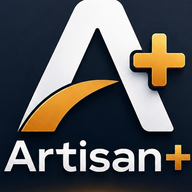
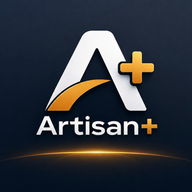
Icones PWA : resize direct sans rogner + splash sans borderRadius
- generate-icons.mjs : suppression du crop, resize simple (fit:fill)
  depuis logo.png qui est deja carre avec fond fonce
- favicon-16/32, apple-touch-icon, icon-192, icon-512, logo-square
  regeneres directement depuis le nouveau logo.png
- App.jsx splash : suppression borderRadius sur l image du logo

diff --git a/src/App.jsx b/src/App.jsx
@@ -132,8 +132,7 @@ export default function App() {
         alt="Artisan+"
         style={{
           width: "clamp(130px, 30vw, 190px)",
-          height: "clamp(130px, 30vw, 190px)",
-          borderRadius: "24%",
+          height: "auto",
           marginBottom: "30px",
           animation: "splashLogoIn 0.55s cubic-bezier(0.34,1.56,0.64,1) both",
         }}
